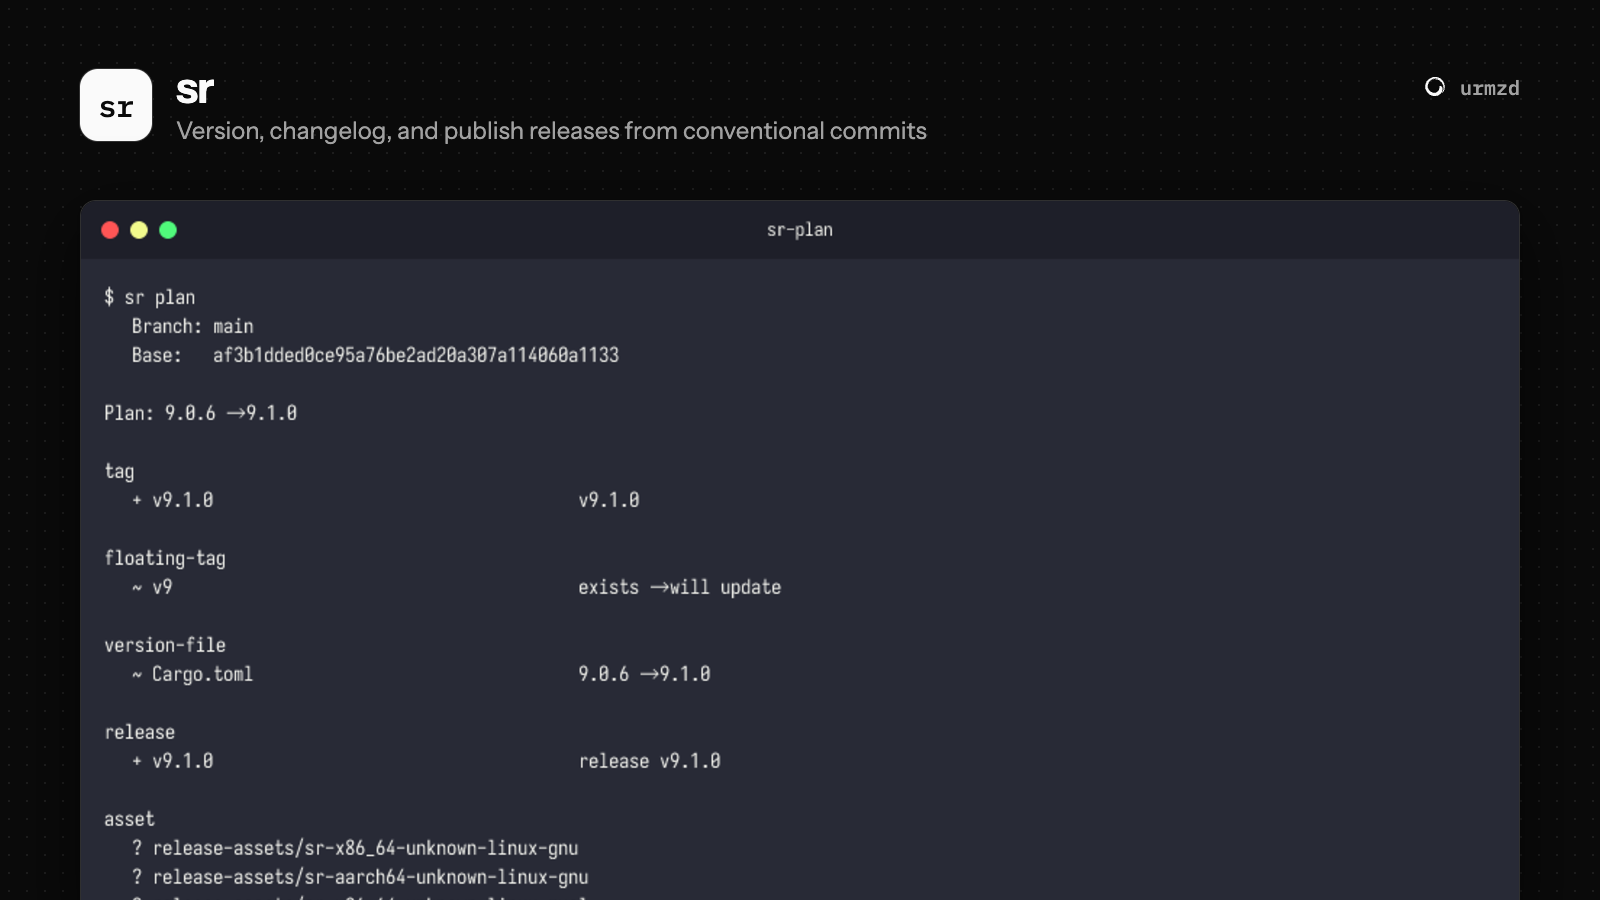
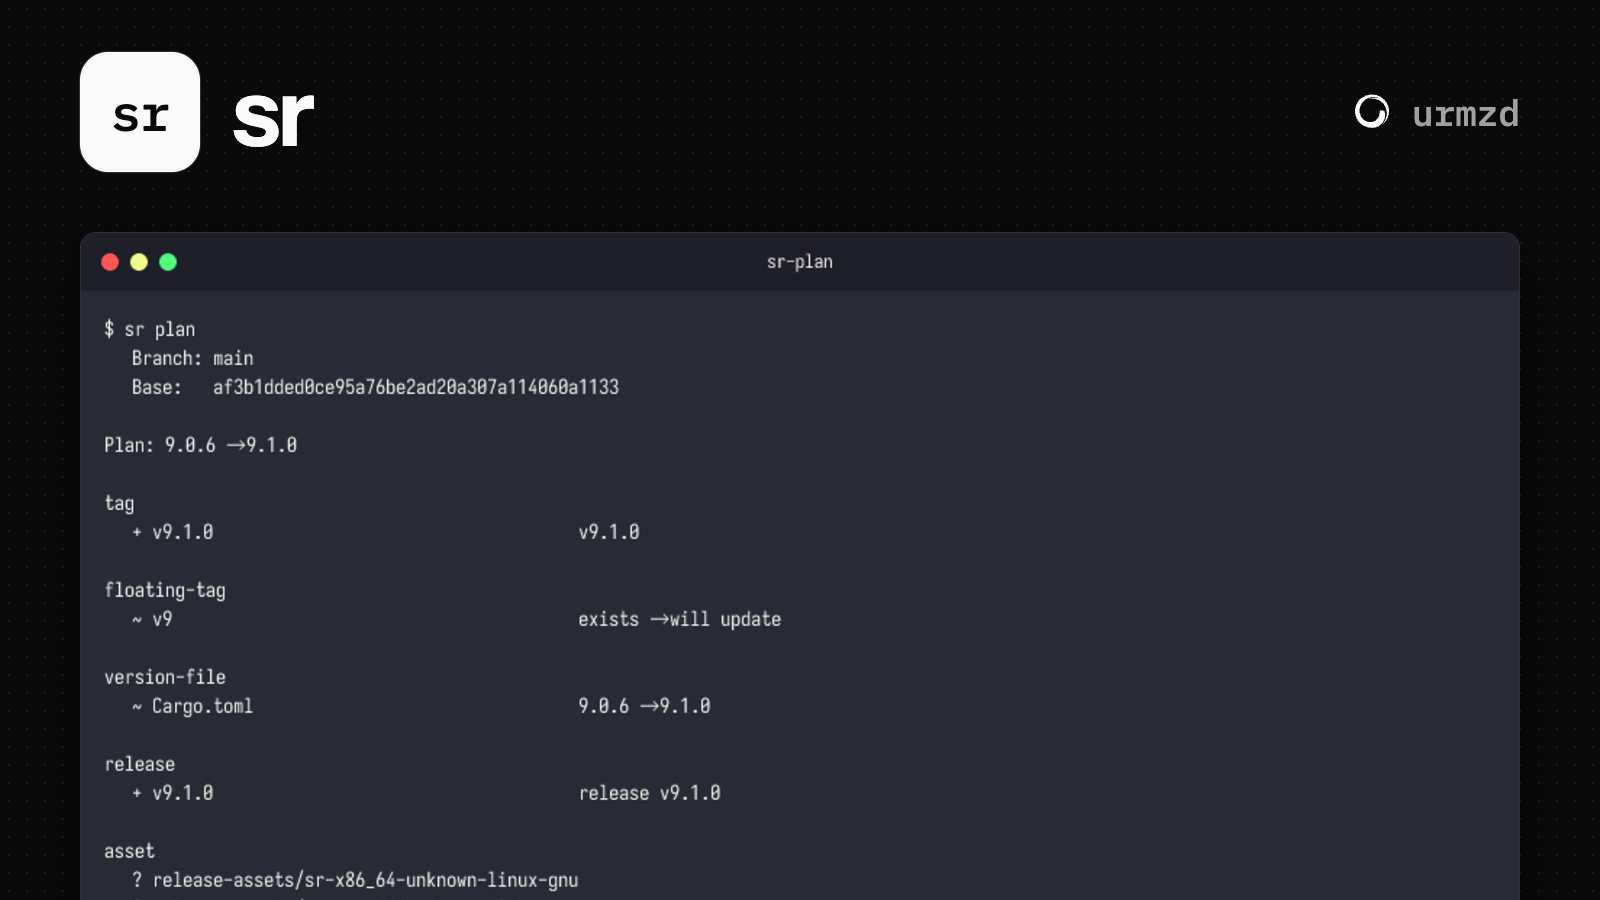
docs(showcase): legible hero and dark-mode card image (#45)
Regenerate showcase/hero-{light,dark}.png with a larger icon and name
and no tagline. SHOWCASE.md now sets the card description and
image_dark, so urmzd.com shows the dark hero in dark mode.

diff --git a/SHOWCASE.md b/SHOWCASE.md
@@ -1,3 +1,5 @@
 ---
+description: "Version, changelog, and publish releases from conventional commits"
 image: showcase/hero-light.png
+image_dark: showcase/hero-dark.png
 ---
